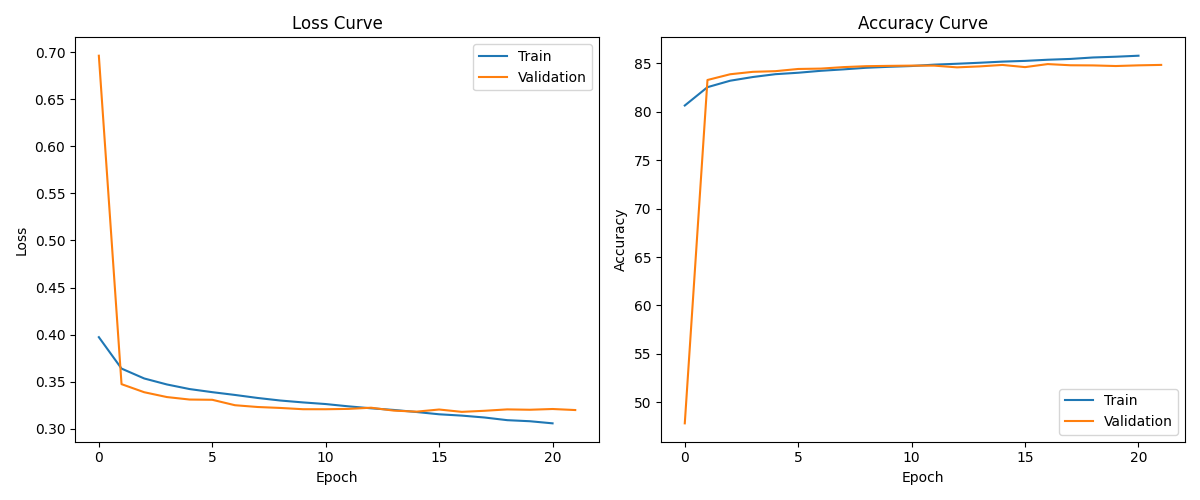
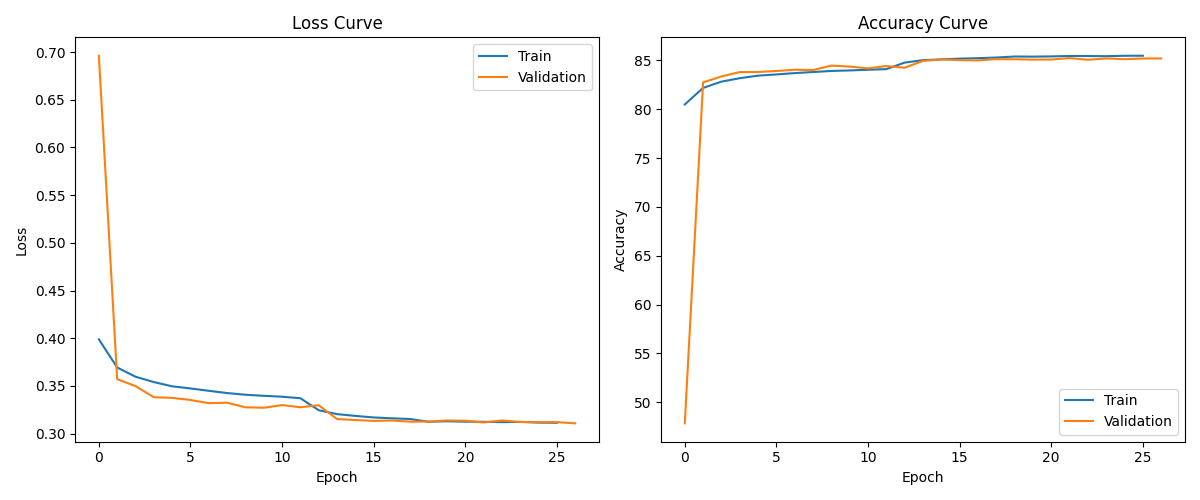
Added testing metrics to readme

diff --git a/README.md b/README.md
@@ -86,7 +86,7 @@ Our AI was trained on the **Stanford CheXpert dataset**, which comprises a total
 
 ![Chest X-ray Sample](backend/training_metrics.png)
 
-
+![Chest X-ray Sample](backend/testing_metrics.png)
 
 ---
 
